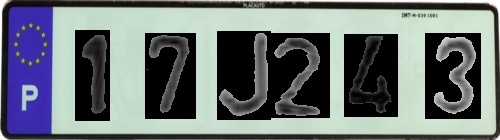
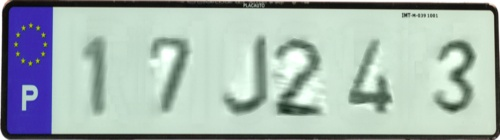
:eyes:

diff --git a/RandomCodigos/data_augmentation/Synthetic_LPs.py b/RandomCodigos/data_augmentation/Synthetic_LPs.py
@@ -84,20 +84,39 @@ for synthetic_image_counter in range(num_synthetic_images):
                 binary_image_name = os.path.join(binary_folder, random_image_name)
                 binary_image = cv2.imread(binary_image_name)
 
-                # Extract the ROI from the original image using the polygon's points
-                roi = cv2.imread(os.path.join(images_folder, random_image_name))
-                mask = np.zeros(roi.shape, dtype=np.uint8)
-                cv2.fillPoly(mask, [points.astype(int)], (255, 255, 255))
-                roi = cv2.bitwise_and(roi, mask)
-                roi = cv2.bitwise_and(roi, ~binary_image)
-                roi = roi[min_y:max_y, min_x:max_x]                
+                # Extract the roi from the original image using the polygon's points and cnovert it to grayscale
+                original_image = cv2.imread(os.path.join(images_folder, random_image_name))
+                original_image = cv2.cvtColor(original_image, cv2.COLOR_BGR2GRAY)
+                # Create a mask for the polygon area
+                polygon_mask = np.zeros(original_image.shape[:2], dtype=np.uint8)
+                cv2.fillPoly(polygon_mask, [points.astype(int)], (255))
+                
+                # Load the binary image
+                binary_image_name = os.path.join(binary_folder, random_image_name)
+                binary_image = cv2.imread(binary_image_name, cv2.IMREAD_GRAYSCALE)
+
+                # Create a mask for the polygon area
+                polygon_mask = np.zeros(original_image.shape[:2], dtype=np.uint8)
+                cv2.fillPoly(polygon_mask, [points.astype(int)], (255))
+
+                # Apply a mask to the polygon_mask to consider only pixels where binary image is black
+                #mask = (binary_image <= 128).astype(np.uint8)
+                #polygon_mask = cv2.bitwise_and(polygon_mask, polygon_mask, mask=mask)
 
                 # Calculate position on the template
-                x = int(random_position[0]*template.shape[1])
-                y = int(random_position[1]*template.shape[0])
+                x = int(random_position[0] * template.shape[1])
+                y = int(random_position[1] * template.shape[0])
 
-                # Paste the ROI onto the template
-                synthetic_image[int(y-h/2):int(y+h/2), int(x-w/2):int(x+w/2)] = roi
+                # Calculate the original_image's dimensions
+                h, w = original_image.shape[:2]
+                
+                # Paste the original_image onto the template
+                #roi_mask = polygon_mask >= 100
+                #synthetic_image[y : y + h, x : x + w, :][roi_mask[:, np.newaxis]] = original_image[roi_mask][:, np.newaxis]
+                #synthetic_image[int(y-h/2): int(y+h/2), int(x-w/2) : int(x+w/2)][roi_mask] = original_image[roi_mask]
+                
+                synthetic_image = cv2.seamlessClone(original_image, synthetic_image, polygon_mask, (x, y), cv2.NORMAL_CLONE)
+
                 
     # Save the synthetic image with a unique filename
     synthetic_image_path = os.path.join(synthetic_folder, f"{synthetic_image_counter}.jpg")
